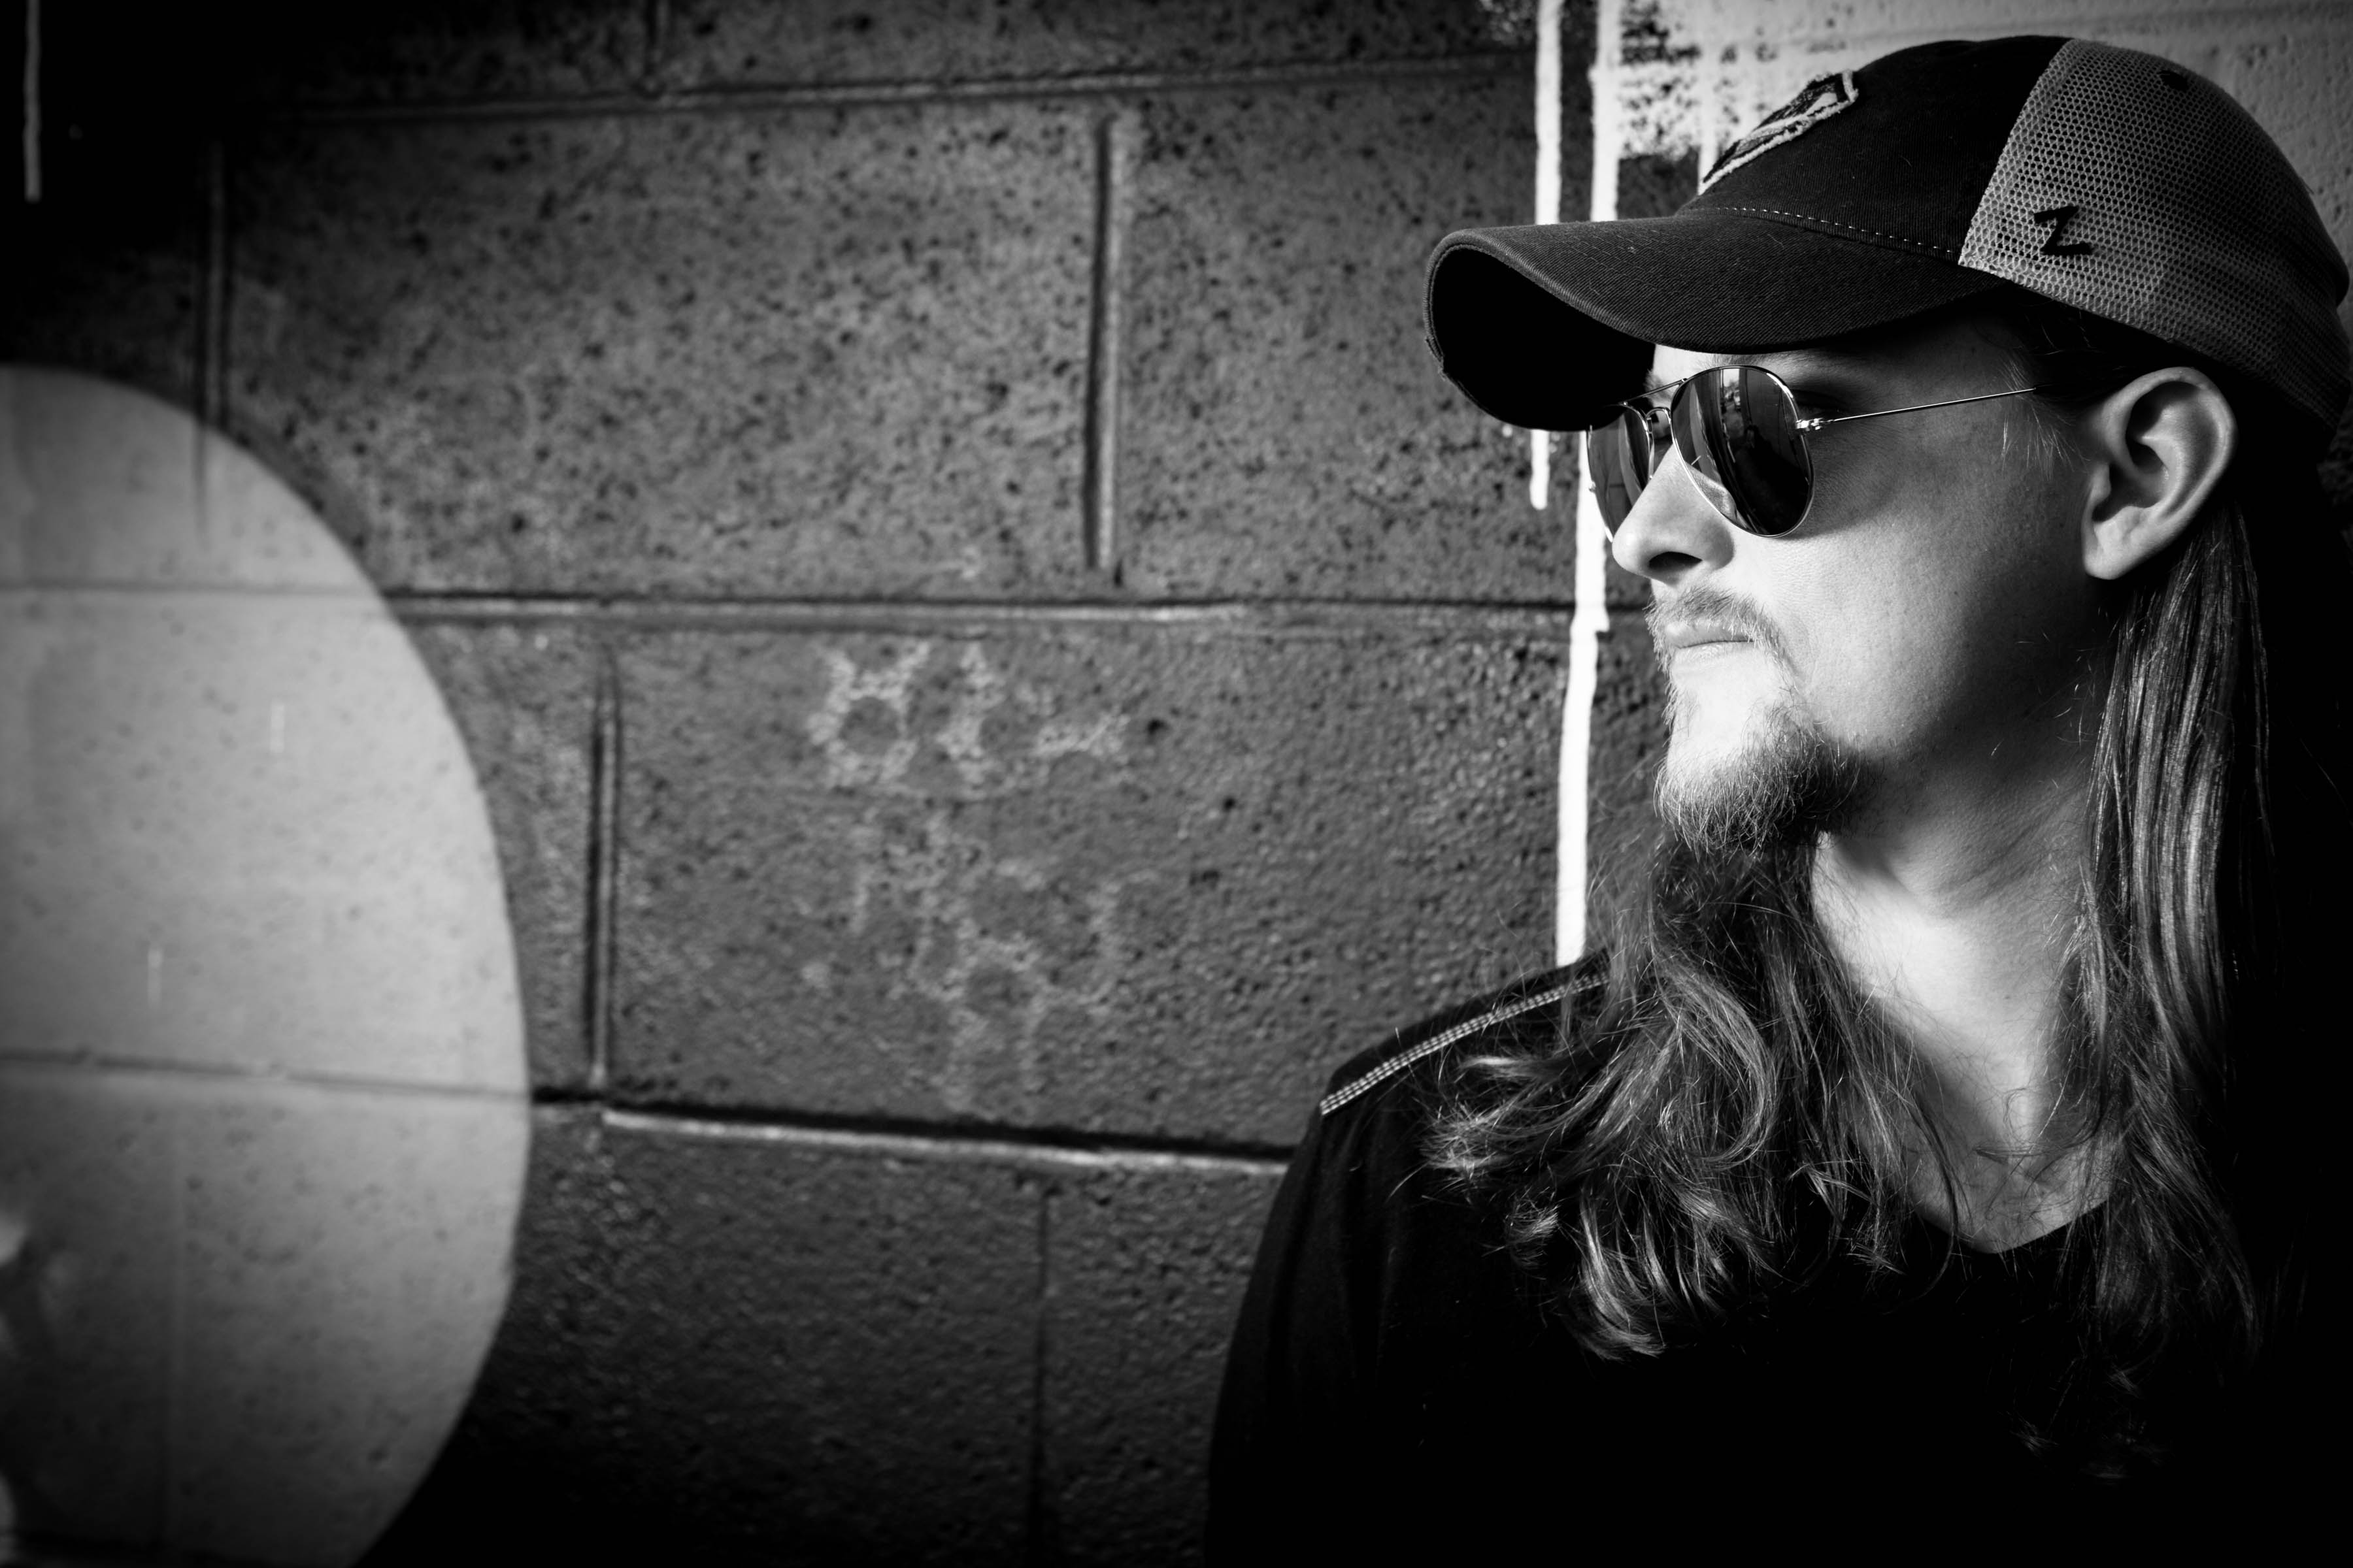
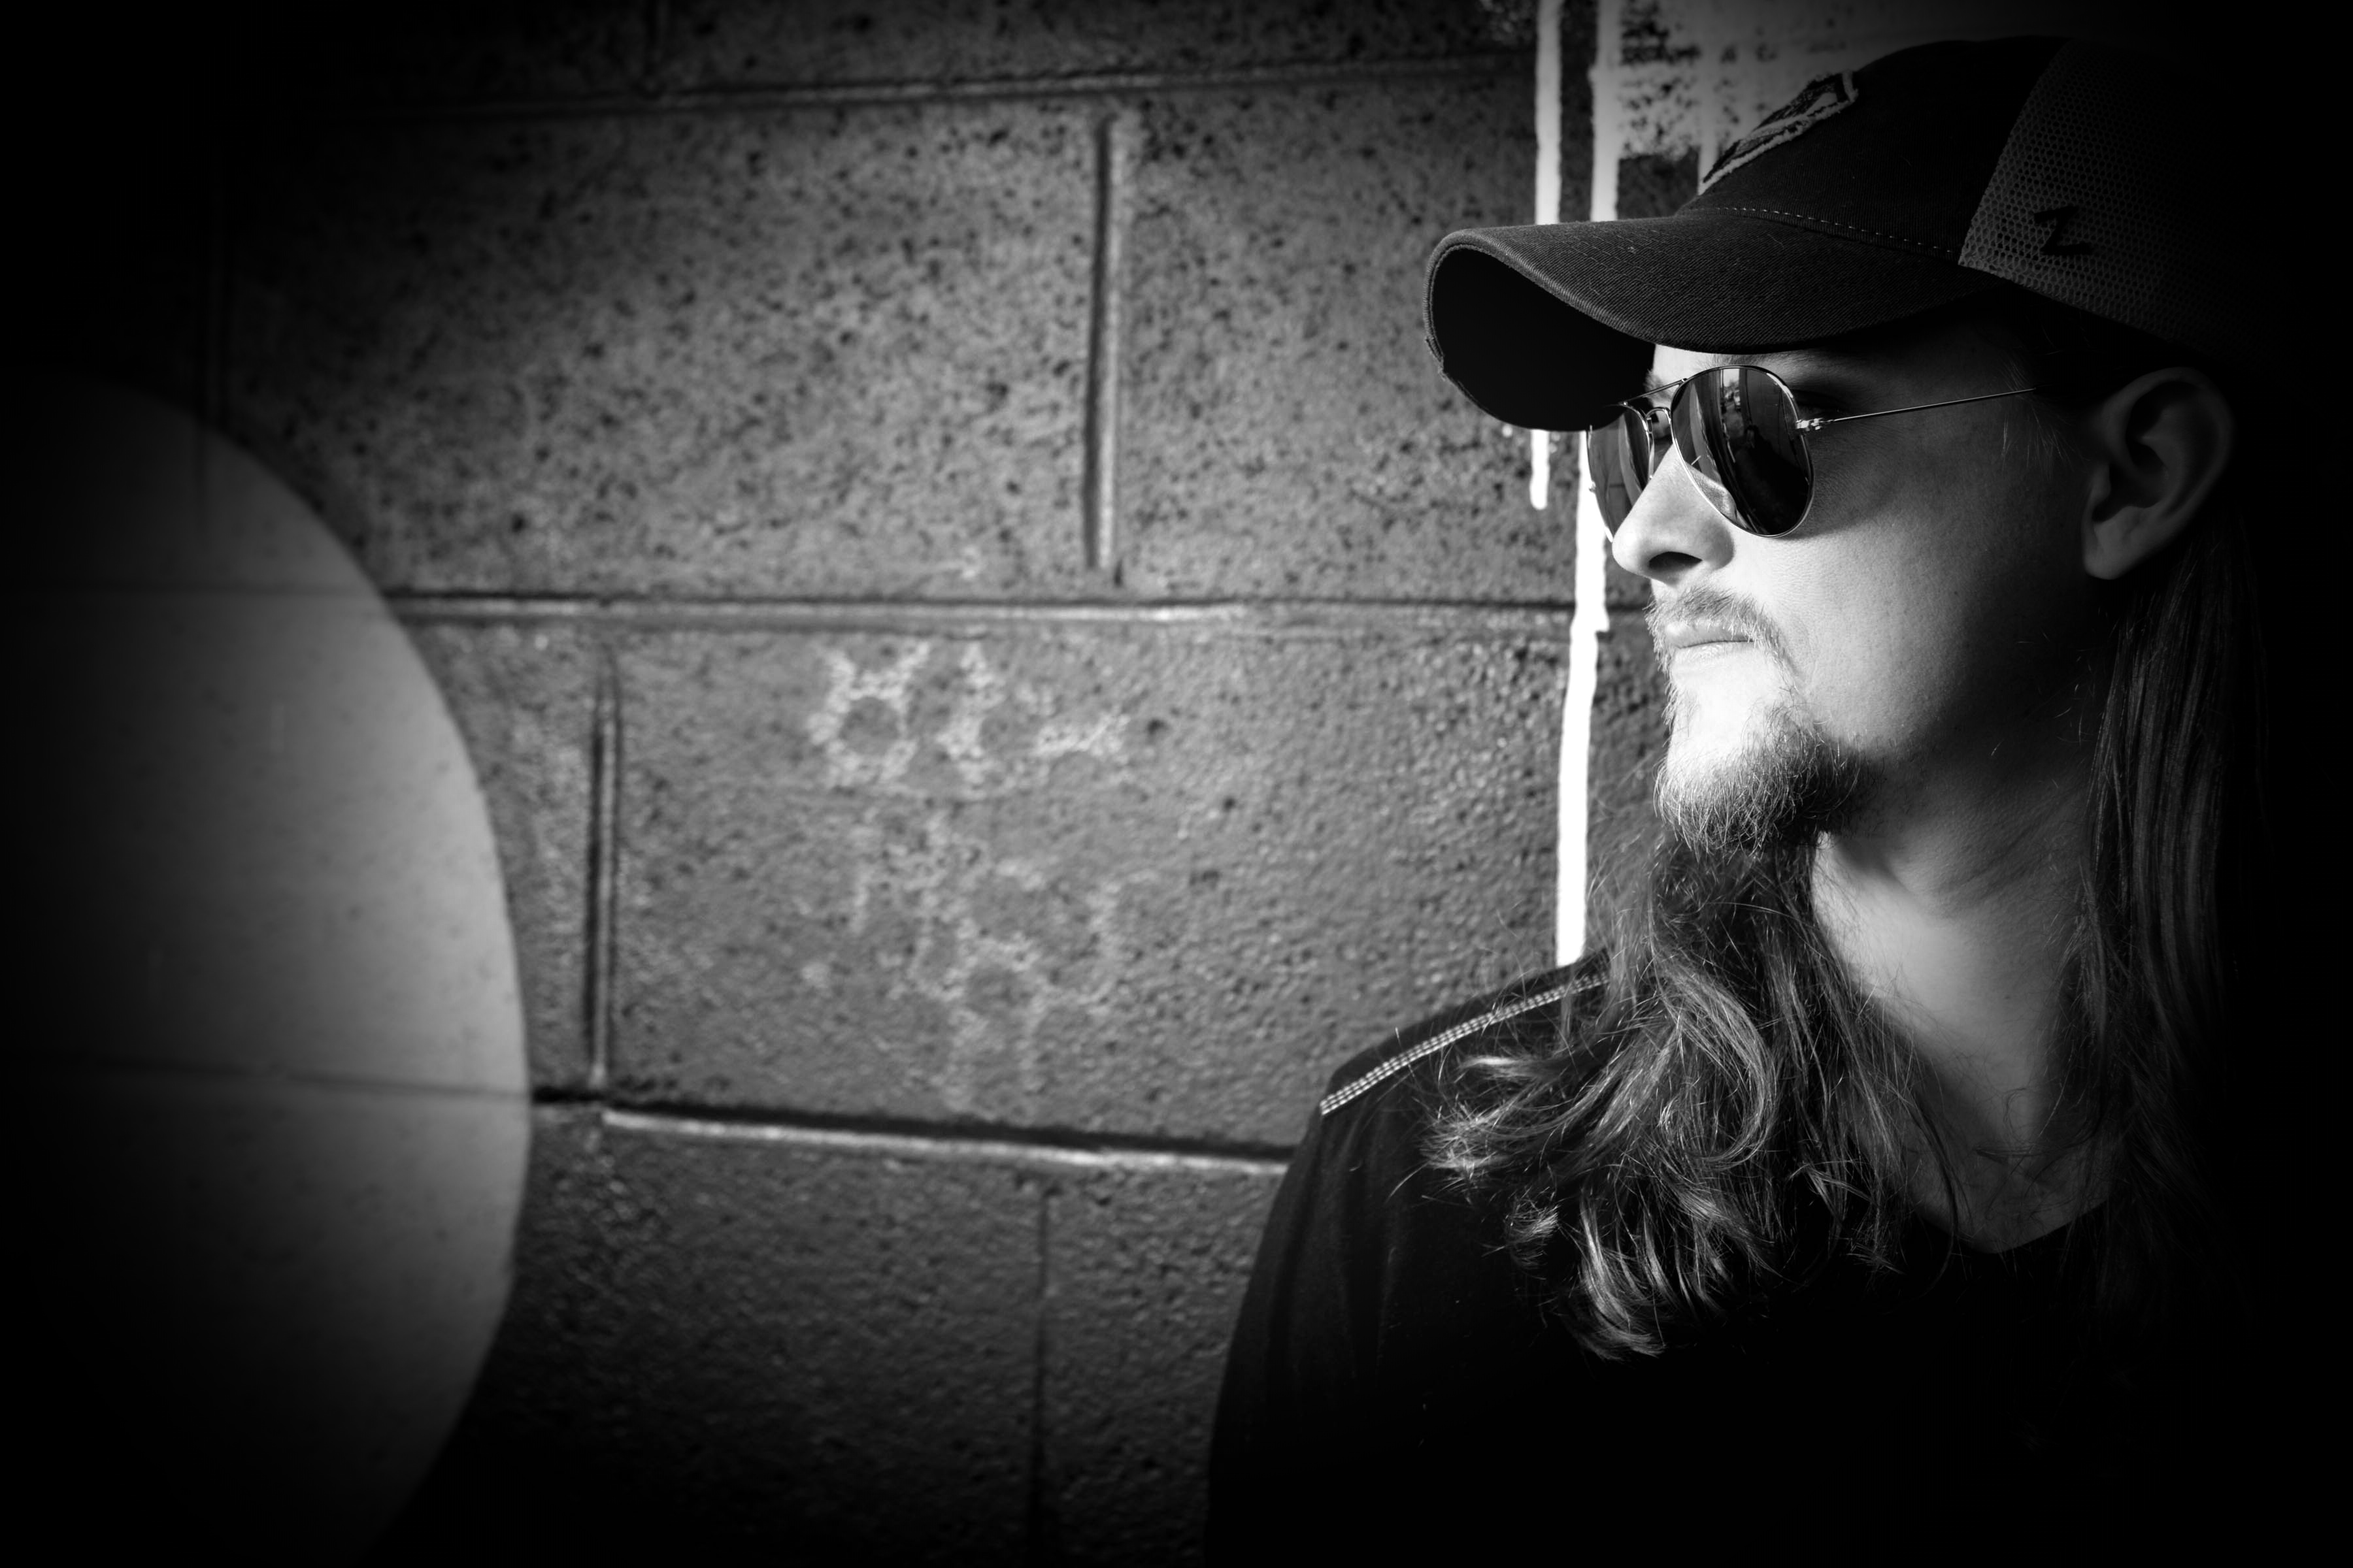
Vignette Images

diff --git a/src/app/app.component.css b/src/app/app.component.css
@@ -83,7 +83,14 @@
     background-size: contain;
     background-position: center;
     background-repeat: no-repeat;
-    background-position-y: 50px !important;    
+    background-position-y: 50px !important;  
+}
+
+.vignette {
+    background-size: cover;
+    background-position: center;
+    background-repeat: no-repeat;
+    background: radial-gradient( circle, transparent 50%, black 150%), hotpink;        
 }
 
 .center {
@@ -287,15 +294,6 @@ textarea {
     
     object-fit: cover;
     object-position: left;
-/* 
-    width: 350px;
-    height: 300px;
-    border-radius: 35%;
-    margin: 30px;
-    -o-object-fit: cover;
-    object-fit: contain;
-    -o-object-position: center right;
-    object-position: right; */
   }
 
 

diff --git a/src/app/app.component.html b/src/app/app.component.html
@@ -74,12 +74,12 @@
             <!-- <h3>Fifth Image</h3> -->
         </div>
     </div> 
-    <div class="sixth item">
-        <img src="assets/image6.jpg" alt="Sixth Image">
-        <div class="carousel-caption">
-            <!-- <h3>Sixth Image</h3> -->
-        </div>
-    </div> 
+      <div class="sixth item">
+          <img src="assets/image6.jpg" alt="Sixth Image">
+          <div class="carousel-caption">
+              <!-- <h3>Sixth Image</h3> -->
+          </div>
+      </div> 
   </div>
 
   <!-- Controls -->

diff --git a/src/app/app.component.ts b/src/app/app.component.ts
@@ -64,7 +64,7 @@ export class AppComponent implements OnInit {
       });
 
       $('.carousel').carousel({
-        interval: 6000,
+        interval: 600000,
         pause: 'false'
       });
     });
